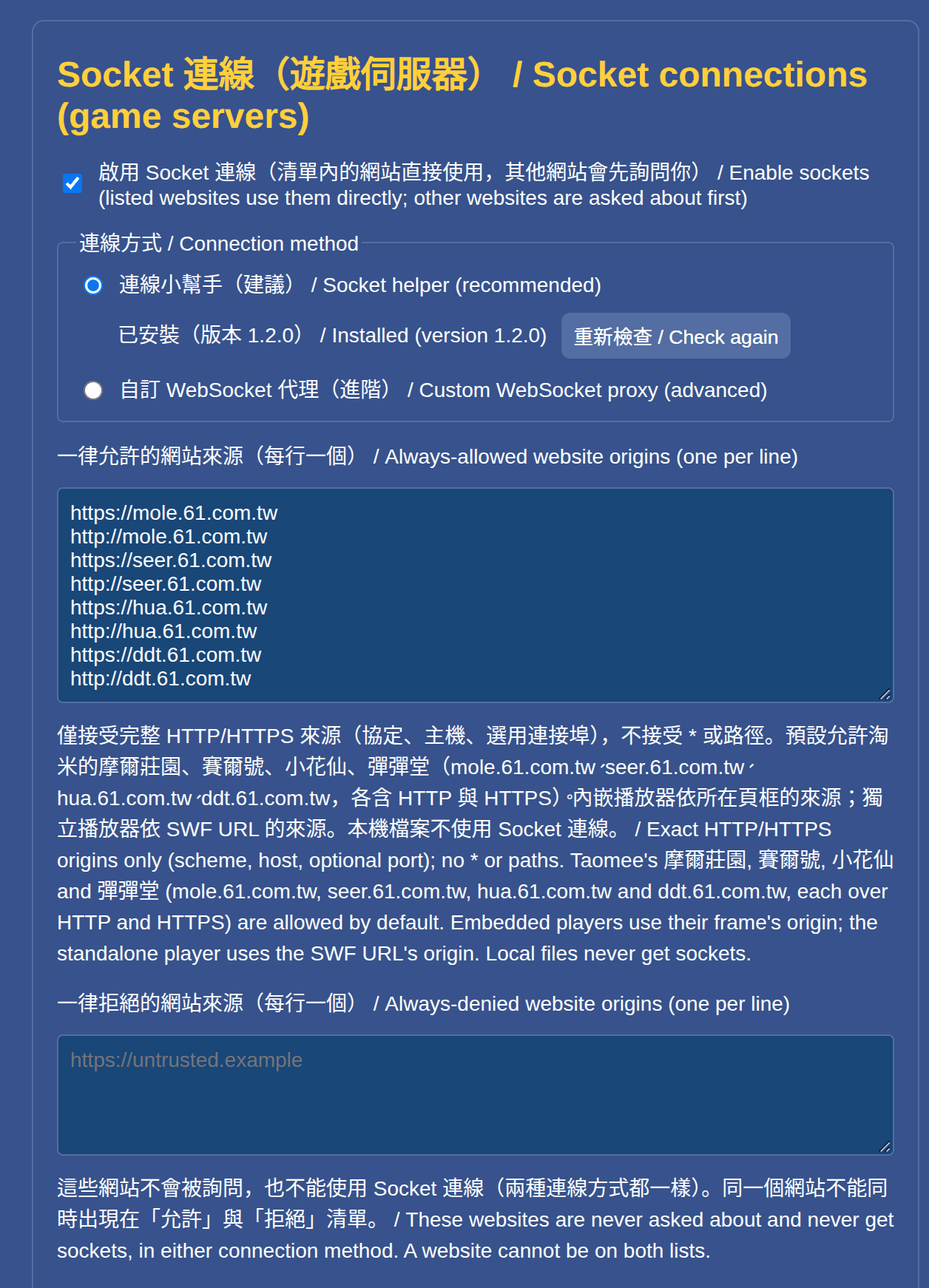
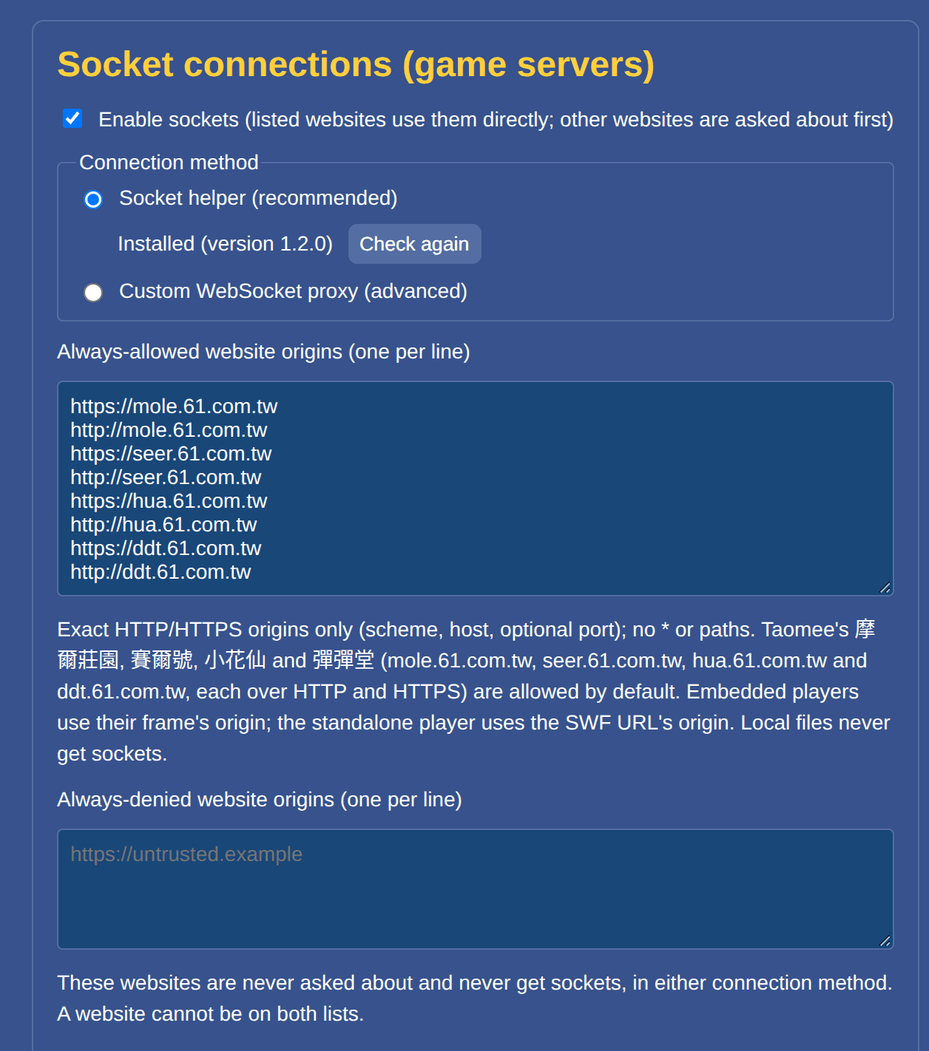
timffle: Prepare 0.8.0.26301
Interface languages (see the CHANGELOG). Documentation: README (all three
languages) gets a Languages section, the screenshots are taken in English,
Traditional and Simplified Chinese (docs/images/zh-TW, zh-CN), and
locales/README.md, ARCHITECTURE, TESTING, BUILD, UPSTREAM, BRANDING and
CHANGES-FROM-RUFFLE describe the mechanism and the merge step. Version strings
are raised to 0.8.0.26301; the earlier "unreleased" README entry moves into
the new version's section.

Changed region(s): [[0.0621, 0.0309, 0.9626, 0.8354], [0.0621, 0.8664, 0.9626, 0.9902]]

diff --git a/README.md b/README.md
@@ -18,7 +18,7 @@
 
 <p align="center"><b>English</b> ・ <a href="README.zh-TW.md">繁體中文</a> ・ <a href="README.zh-CN.md">简体中文</a></p>
 
-<p align="center">Version <code>0.8.0.26300</code> (based on Ruffle nightly 2026-10-13) | licence MIT OR Apache-2.0, at your option</p>
+<p align="center">Version <code>0.8.0.26301</code> (based on Ruffle nightly 2026-10-13) | licence MIT OR Apache-2.0, at your option</p>
 
 > [!IMPORTANT]
 > **Timffle is an unofficial fork of [Ruffle](https://ruffle.rs/). It is not affiliated with, endorsed by or sponsored by the Ruffle project, Ruffle LLC or Taomee.** Almost all of the Flash emulation is the work of Ruffle and its [hundreds of contributors](https://github.com/ruffle-rs/ruffle/graphs/contributors); this repository keeps Ruffle's complete git history, authorship and licence files.
@@ -50,6 +50,7 @@ Everything ships as **one Chrome extension package**: download it, install it, o
 - **Conservative security design**: the helper connects to public internet addresses only, listens on no port, does not stay running and records no traffic; only this extension's ID can call it.
 - **Real Flash as the reference**: every compatibility fix for Ruffle is compared line by line with the output of Adobe Flash Player 32 (30 golden files).
 - **Chinese text shows up**: device-font text uses the browser's fonts, positioned by the metrics of the Windows fonts the games ask for (SimSun, Arial Black, Tahoma, …).
+- **36 interface languages, like Ruffle**: the pages follow the browser's language (English and Traditional Chinese are written by the author, the other 34 are machine translations; see [Languages](#languages)).
 - **Taomee Taiwan's games out of the box**: the four game sites are allowed to use sockets by default.
 - **One package**: [Releases](https://github.com/Im-Tim-mI/Timffle/releases/latest) provides `timffle-chrome-<version>.zip` with the Chrome extension, the connection helper and the installers.
 - **Open source, upstream history kept**: Ruffle's complete git history, authorship and licences are preserved; Timffle's own parts are MIT OR Apache-2.0 at your option, like Ruffle.
@@ -140,7 +141,7 @@ The helper lives in `%LOCALAPPDATA%\TimffleSocketHelper` (Windows), `~/Library/A
 
 ## Settings
 
-The extension's options page has a section "**Socket 連線（遊戲伺服器） / Socket connections (game servers)**" (bilingual: Traditional Chinese / English):
+The extension's options page has a section "**Socket connections (game servers)**" (the pictures show an English browser; the text follows the browser's language, see [Languages](#languages)):
 
 <p align="center"><img src="timffle/docs/images/options-socket.png" alt="The socket section of the extension's options page: the connection helper is shown as installed, followed by the list of allowed website origins" width="560"></p>
 
@@ -184,6 +185,15 @@ Click the Timffle icon on the browser toolbar; the "Socket connections" section 
 - **Frames of other websites** in this tab that were asked about are listed below, each with its own button and drop-down.
 - The status line also shows this tab's allow or deny for "this visit".
 - The other options on that page are Ruffle's usual playback settings (device fonts, emulated Flash version, ActionScript time limit, …). **Device font renderer** defaults to Canvas (the browser's fonts), which is what makes Chinese text show up; choose Embedded there to go back to Ruffle's built-in font.
+
+## Languages
+
+Timffle's pages (settings, popup, question window) follow the browser's interface language. The languages are the same 36 as in the Ruffle extension: Arabic, Bosnian, Catalan, Chinese (Simplified and Traditional), Croatian, Czech, Dutch, English, Esperanto, Finnish, French, Galician, German, Hebrew, Hungarian, Indonesian, Italian, Japanese, Korean, Norwegian Bokmål, Polish, Portuguese (Brazil and Portugal), Romanian, Russian, Serbian, Slovak, Slovenian, Spanish, Swedish, Tatar, Thai, Turkish, Ukrainian and Vietnamese. Arabic and Hebrew are laid out right to left.
+
+- **Who translated what**: the texts Timffle added (the socket settings, the popup section and the question window) are in [`timffle/locales/`](timffle/locales/), one file per language. English and Traditional Chinese are written by the author; **the other 34 languages are machine translations** (Simplified Chinese is converted from the Traditional text) that no native speaker has reviewed, so some wording may be off, Tatar most of all. Corrections are welcome in [Timffle's issues](https://github.com/Im-Tim-mI/Timffle/issues).
+- **Ruffle's own texts** (the standard options and the player's messages) come from Ruffle's translations and are as complete as Ruffle's: a few languages (for example Esperanto, Galician, Norwegian and Thai) still show English there until Ruffle's translators have finished them.
+- **Chrome has no interface language** for Bosnian, Esperanto, Galician and Tatar, so Chrome shows these pages in English; the translations are included anyway, as in Ruffle.
+- **Not translated**: the helper installer's messages (Traditional Chinese and English) and this README (English, Traditional Chinese and Simplified Chinese).
 
 ## Troubleshooting
 
@@ -232,6 +242,7 @@ Details: [`timffle/docs/ARCHITECTURE.md`](timffle/docs/ARCHITECTURE.md), [`timff
 - **Hit testing**: Flash's `hitTestPoint(x, y, true)` works on whole pixels, Timffle on exact coordinates; edges occasionally differ by 1–2 cells.
 - **Recursion depth on the web**: the WebAssembly call stack is shallower than Flash's; the guard limit is 900 levels, and a few long kart-map paths are cut short.
 - **Text position**: Flash lays text out with the Windows font the game asks for. For the common ones (SimSun, Arial Black, Tahoma, …) Timffle uses Windows' line metrics even when the browser has to substitute another font, so text sits within about a pixel or two of Flash; other fonts use the browser's own metrics and can sit further off.
+- **Languages**: apart from English and Traditional Chinese, the texts Timffle added are machine translations that no native speaker has reviewed; the helper installer's messages are in Traditional Chinese and English only; Ruffle's own texts are as complete as Ruffle's translations are.
 - More known differences: the end of [`timffle/docs/CHANGES-FROM-RUFFLE.md`](timffle/docs/CHANGES-FROM-RUFFLE.md) and [`timffle/docs/FLASH-NOTES.md`](timffle/docs/FLASH-NOTES.md).
 
 ## Relationship with Ruffle
@@ -257,8 +268,8 @@ Needs git, Rust 1.99 with `wasm32-unknown-unknown`, wasm-bindgen CLI 0.2.127 (mu
 
 ```sh
 git clone https://github.com/Im-Tim-mI/Timffle.git && cd Timffle
-VERSION4=0.8.0.26300 timffle/scripts/build-extension.sh   # wasm + extension → web/packages/extension/dist/ruffle_extension.zip
-VERSION4=0.8.0.26300 timffle/scripts/package-release.sh   # helper for 7 platforms + release ZIP with licences → timffle/build/out/
+VERSION4=0.8.0.26301 timffle/scripts/build-extension.sh   # wasm + extension → web/packages/extension/dist/ruffle_extension.zip
+VERSION4=0.8.0.26301 timffle/scripts/package-release.sh   # helper for 7 platforms + release ZIP with licences → timffle/build/out/
 ```
 
 The build script rewrites the build machine's home directory and user name out of the wasm by default, and the packaging script checks before and after packaging and refuses to produce a release ZIP that still carries them. See [`timffle/docs/BUILD.md`](timffle/docs/BUILD.md). The other parts of Ruffle (desktop app etc.) build as upstream does ([`README.ruffle.md`](README.ruffle.md)), but read [`timffle/docs/BRANDING.md`](timffle/docs/BRANDING.md) first.
@@ -270,9 +281,10 @@ The build script rewrites the build machine's home directory and user name out o
 | Differential tests (against real Flash) | Small SWFs written in Haxe run once in Adobe Flash Player 32 (under Wine) and once in Timffle, compared line by line; 30 golden files | [`timffle/difftest/`](timffle/difftest/) |
 | Helper unit tests | Go: protocol, connection policy, flow control, install/uninstall | `timffle/helper/*_test.go` |
 | Package tests | The release ZIP's contents, permissions and private-key check | `timffle/helper/installer-tests/` |
-| Extension unit tests | Settings, page bridge, background permissions, the first-use question | `web/packages/extension/tests/` |
+| Extension unit tests | Settings, page bridge, background permissions, the first-use question, the message catalogs of all 36 languages | `web/packages/extension/tests/` |
 | Rebrand check | The user-visible text must not contain the product name "Ruffle" any more | `python3 timffle/scripts/rebrand.py --check` |
-| Browser + helper integration tests | Headless Chrome + the real helper, connecting to localhost only | [`timffle/tools/native-regress/`](timffle/tools/native-regress/) |
+| Language check | Every interface text exists in all 36 languages, with placeholders and technical words intact | `python3 timffle/scripts/sync_locales.py --check` |
+| Browser + helper integration tests | Headless Chrome + the real helper, connecting to localhost only; also every interface language in a real Chrome | [`timffle/tools/native-regress/`](timffle/tools/native-regress/) |
 | Ruffle's own regression suite | Upstream's tests plus the ones we added | `cargo test -p tests --test tests` |
 
 How to run them: [`timffle/docs/TESTING.md`](timffle/docs/TESTING.md). What was actually run for each version, and the results: [`timffle/CHANGELOG.md`](timffle/CHANGELOG.md).
@@ -295,10 +307,11 @@ timffle/                   Timffle's own parts:
   helper/                        The connection helper (Go), installers/uninstallers, packaging script
   relay/                         Advanced: a local WebSocket↔TCP proxy (bundles the MIT-licensed ws library)
   extension-key/                 The extension's public key and ID (the private key is not in the repository)
+  locales/                       Timffle's own interface texts, one file per language (copied into the extension's message catalogs by scripts/sync_locales.py)
   difftest/                      Differential tests: Haxe tests, goldens from real Flash, run/compare scripts
   tools/                         Chrome smoke tests, integration tests, real-account test, screenshot tools
   branding/                      Generators for Timffle's icon and logo
-  scripts/                       Build, packaging, path check, rebrand and its check, list of modified files
+  scripts/                       Build, packaging, path check, rebrand and its check, sync of the interface texts, list of modified files
 ```
 
 ### Following upstream Ruffle
@@ -311,6 +324,8 @@ git fetch upstream tag nightly-YYYY-MM-DD --no-tags
 git merge nightly-YYYY-MM-DD                 # merge, never rebase published history
 python3 timffle/scripts/rebrand.py           # re-apply the name to new/translated upstream strings
 python3 timffle/scripts/rebrand.py --check
+python3 timffle/scripts/sync_locales.py      # Timffle's own interface texts go back into the (upstream-replaced) message catalogs
+python3 timffle/scripts/sync_locales.py --check
 timffle/scripts/list-modified-files.sh > timffle/MODIFIED-FILES.md
 ```
 

diff --git a/timffle/CHANGELOG.md b/timffle/CHANGELOG.md
@@ -2,9 +2,27 @@
 
 版本號 `0.8.0.N`：前三段是基底 Ruffle 的版本（0.8.0），最後一段 `N` 是流水號（沿用前身專案的編號）。擴充功能與小幫手分開記版本：小幫手目前是 **1.2.0（protocol 2）**，只有在下面明確寫「小幫手有更新」時才需要重跑安裝程式。日期為 UTC。0.8.0.26295 以前是前身專案的紀錄。
 
-## 未發布
+## 0.8.0.26301 — 2026-10-18
 
-- **說明文件**：`README.md` 改成英文（預設），繁體中文移到 `README.zh-TW.md`，新增簡體中文 `README.zh-CN.md`（`README.en.md` 移除）。重心改成「Flash 線上遊戲」：TCP Socket 連線、線上遊戲需要的相容性修正、看得到中文；淘米台灣的四個遊戲改寫成預設放行的現成範例，不再是整份說明的主題。支援狀態新增「玩其他 Flash 線上遊戲」的做法，已知限制新增三項：沒有 Socket 政策檔（遊戲伺服器沒有否決權）、`XMLSocket` 沒有測試過、文字位置的精確度。摩爾莊園的驗證說明改成「0.8.0.26294 是這裡記錄的最後一次完整的真實帳號測試」（原本寫「之後的版本行為相同」，已經不成立）。三份說明的標題層級、表格、程式碼區塊、圖片與連結一一對應，相對連結與錨點用檢查腳本核對過（各 39 個連結）；簡體版是繁體版經 OpenCC（tw2sp）轉換、再人工修正用詞，**沒有請母語人士校對**。
+**介面語言：Timffle 的頁面跟著瀏覽器的語言，支援和 Ruffle 擴充功能一樣的 36 種語言。**只有 Chrome 擴充功能與文件、腳本改變；小幫手仍是 1.2.0（**不需要重跑安裝程式**）、通訊協定不變；Ruffle 核心（wasm）沒有動（`ruffle_web_bg.wasm` 與 0.8.0.26300 逐位元組相同，SHA-256 `872668b0…f5652`）。
+
+- **問題**：Ruffle 的選項、彈出視窗標題等用 Chrome 的訊息目錄，已經有 36 種語言；但 Timffle 自己加的畫面（Socket 設定、彈出視窗的 Socket 區塊、第一次連線的詢問視窗、頁尾聲明）全是寫死的「繁體中文／English」對照，其他語言的使用者看不懂。詢問視窗尤其重要：它是要使用者做安全決定的地方。
+- **改法**：這些文字全部移進訊息目錄，語言跟著瀏覽器的介面語言；語言取自 Ruffle：`ar bs ca cs de en eo es fi fr gl he hr hu id it ja ko nb nl pl pt_BR pt_PT ro ru sk sl sr sv th tr tt uk vi zh_CN zh_TW`。
+  - **75 句文字**，鍵以 `timffle_` 開頭，來源放在新的 [`locales/`](locales/)（每種語言一個檔案，英文是完整來源，帶給翻譯者的說明與佔位符），由新的 `scripts/sync_locales.py` 複製進各語言的 `messages.json`；`build-extension.sh` 在建置前跑 `--check`。分開存放是因為跟進上游時 `messages.json` 一律取上游版本（見 [`docs/UPSTREAM.md`](docs/UPSTREAM.md)），寫在裡面的文字會消失。`rebrand.py` 不改 `timffle_` 開頭的訊息（頁尾聲明刻意提到 Ruffle）。
+  - 設定頁、彈出視窗、詢問視窗的 HTML **不再自帶這些文字**（改標 `data-i18n`／`data-i18n-rich`），新增 `src/i18n.ts` 在載入時填入；`popup-socket.ts`、`proxy-options.ts`、`prompt.ts` 裡寫死的雙語字串全部換成訊息目錄的鍵。找不到的鍵顯示鍵名，不會留白。
+  - `setPageLanguage()` 多設 `dir`：阿拉伯文與希伯來文**由右至左**排版（詢問視窗的按鈕順序跟著反過來）；網址、來源清單、範例網址固定由左到右（`dir="ltr"`），阿拉伯文與希伯來文裡的 `ws://`、`wss://` 後面放了由左到右標記，否則 `://` 會被排反。拿掉這些區塊的 `translate="no"`（以前是為了避免 Chrome 把雙語文字翻壞，現在文字本來就是使用者的語言）。
+  - 詢問視窗的「出現在這個頁面中：網址」改成「標籤」與「網址」兩個元素，網址不會被翻譯或打亂順序。
+- **翻譯品質（照實說）**：英文與繁體中文由作者撰寫；簡體中文由繁體轉換後逐句改成大陸慣用說法；**其餘語言是機器翻譯**，沒有請母語人士審閱，可能有不自然或錯誤的地方，尤其是韃靼文。測試只能檢查結構、佔位符、技術用詞與用字，檢查不出語意是否通順。Ruffle 原有的文字（一般選項、播放器訊息）維持 Ruffle 的翻譯，完整程度和 Ruffle 一樣：世界語、加利西亞文、挪威文、泰文、韃靼文等在 Ruffle 補完之前仍有英文的地方。
+- **限制**：Chrome 沒有波士尼亞文、世界語、加利西亞文與韃靼文的介面語言，這四種在 Chrome 上顯示英文（翻譯仍附上，和 Ruffle 一樣）。連線小幫手安裝程式的訊息仍是繁體中文＋英文雙語；獨立播放器頁（`player.html`）Ruffle 原本就沒有翻譯。README 與設定頁截圖：英文版用英文介面，繁體／簡體版用各自語言的介面（`docs/images/zh-TW/`、`docs/images/zh-CN/`）。
+- - **說明文件**：`README.md` 改成英文（預設），繁體中文移到 `README.zh-TW.md`，新增簡體中文 `README.zh-CN.md`（`README.en.md` 移除）。重心改成「Flash 線上遊戲」：TCP Socket 連線、線上遊戲需要的相容性修正、看得到中文；淘米台灣的四個遊戲改寫成預設放行的現成範例，不再是整份說明的主題。支援狀態新增「玩其他 Flash 線上遊戲」的做法，已知限制新增三項：沒有 Socket 政策檔（遊戲伺服器沒有否決權）、`XMLSocket` 沒有測試過、文字位置的精確度。摩爾莊園的驗證說明改成「0.8.0.26294 是這裡記錄的最後一次完整的真實帳號測試」（原本寫「之後的版本行為相同」，已經不成立）。三份說明的標題層級、表格、程式碼區塊、圖片與連結一一對應，相對連結與錨點用檢查腳本核對過（各 41 個連結）；簡體版是繁體版經 OpenCC（tw2sp）轉換、再人工修正用詞，**沒有請母語人士校對**。
+- **驗證**（Chrome 155 無頭模式、Linux；對最終的發行包）：
+  - 擴充功能單元測試 **172 項**全過（原 152 項；新增 `i18n.test.mjs`、`locales.test.mjs`、`popup-socket-text.test.mjs`：36 種語言每一句都有且沒有多的、佔位符與 `{host}`／`{port}`／`<n>` 標記沒被翻掉、名稱與技術用詞保留、說明裡引用的按鈕用詞與按鈕一致、各語言用自己的文字、頁面與程式用到的鍵都存在且沒有沒人用的鍵、遊戲名稱與預設主機和程式裡的預設清單同步、彈出視窗每種狀態在每種語言都有文字）；`sync_locales.py --check`、`rebrand.py --check`、封裝測試 24 項、本機代理 10 項、比對工具測試通過；README 三份的連結與錨點檢查通過（各 41 個連結、26 個標題）。
+  - **新的 `locale-tests.mjs`**：36 種語言各開一個真 Chrome（以 `LANGUAGE=<語言>` 啟動），共 **552 項檢查全過**：Chrome 真的在那種語言下執行、設定頁與詢問視窗每個標記的元素都是該語言目錄裡的文字、`lang` 與 `dir`、頁尾聲明的兩個連結、粗體警告的位置、沒有水平溢出或被截斷的按鈕、按鈕順序跟著閱讀方向（阿拉伯文與希伯來文相反）。波士尼亞文、世界語、加利西亞文與韃靼文只確認 Chrome 退回英文且頁面顯示英文而不是鍵名。另外用肉眼看過其中幾種的截圖（不是全部）：詢問視窗的阿拉伯文、希伯來文、芬蘭文、泰文、繁體與簡體中文，設定頁的英文與阿拉伯文，彈出視窗的阿拉伯文、德文與繁體中文；阿拉伯文與希伯來文的版面是鏡像的、沒有錯位或被截斷。
+  - **整合測試**：`ask-tests.mjs`、`browser-auto-tests.mjs` 改成從訊息目錄取預期的文字（`catalog.mjs`），不再寫死語言，並能以 `TEST_LOCALE` 指定瀏覽器語言。對最終的發行包：localtest 28、missing 12、delayed 13、incompatible 12、manual 8、ask 64，全部通過；`ask-tests.mjs` 另以繁體中文與阿拉伯文各跑一遍（64 項全過，日文也在稍早的同一份原始碼上通過）。
+  - **測試節奏**：擴充功能每分鐘最多開 6 個詢問視窗。英文時每次開彈出視窗，測試都要多等幾秒（頁面文字剛好和預設的英文相同，測試等不到「文字改變」），其他語言不用等，整套測試只要約 1 分 20 秒（英文約 3 分鐘）；第一次用繁體中文跑時，短時間內開的詢問視窗超過上限，後面的問題就沒有視窗了。`ask-tests.mjs` 現在自己控制節奏（還有 5 個視窗年輕於 62 秒就等），這是測試的問題，不是擴充功能的問題。
+  - **已知會偶爾失敗的一項**：`browser-auto-tests.mjs` localtest 情境的 `local-close-no-remote-close-event`。用 0.8.0.26300 與舊腳本跑 8 次失敗 4 次，所以與這次改動無關；重跑通常就過，這次的最終發行包對它跑過一次是通過的。原因還沒查清（見 [`docs/TESTING.md`](docs/TESTING.md)）。
+  - **沒有驗證**：沒有在 macOS、Windows 或有畫面的 Chrome 上看過各語言的版面；沒有請母語人士看過任何一種翻譯；沒有在 Firefox／Safari 試過。
[1 lines of base64/hex data omitted]
 
 ## 0.8.0.26300 — 2026-10-18
 

diff --git a/timffle/docs/ARCHITECTURE.md b/timffle/docs/ARCHITECTURE.md
@@ -42,7 +42,7 @@
 | 元件 | 位置 | 說明 |
 |---|---|---|
 | 核心（WASM） | `core/`、`render/`、`web/src/` 等（Ruffle＋Timffle 的修正） | 模擬 Flash；相容性修正見 [`CHANGES-FROM-RUFFLE.md`](CHANGES-FROM-RUFFLE.md) |
-| 擴充功能 | `web/packages/extension/` | Manifest V3；`socket-bridge-{page,content,background,protocol,arm}.ts`、設定頁、`socket-proxy.ts`（設定、允許／拒絕清單與三態判斷）、`socket-prompt.ts`（詢問管理）、`socket-visit.ts`（單次造訪的回答）、`prompt.html`／`prompt.ts`（詢問視窗）、`popup-socket.ts`（彈出視窗的 Socket 區塊） |
+| 擴充功能 | `web/packages/extension/` | Manifest V3；`socket-bridge-{page,content,background,protocol,arm}.ts`、設定頁、`socket-proxy.ts`（設定、允許／拒絕清單與三態判斷）、`socket-prompt.ts`（詢問管理）、`socket-visit.ts`（單次造訪的回答）、`prompt.html`／`prompt.ts`（詢問視窗）、`popup-socket.ts`（彈出視窗的 Socket 區塊）、`i18n.ts`（把訊息目錄的文字填進頁面，見第 7 節） |
 | 連線小幫手 | [`helper/`](../helper/) | Go；沒有第三方相依套件；內建安裝／移除程式 |
 | 安裝啟動檔 | `helper/installers/` | 只是薄薄的啟動器，真正的安裝程式在小幫手執行檔裡（`--install`／`--uninstall`） |
 | 封裝工具 | `helper/package.py` | 驗證輸入（拒絕符號連結、私鑰標記、過大檔案）並產生發行 ZIP |
@@ -135,3 +135,14 @@
 - 簡單：沒有多工、沒有程序間狀態，小幫手一個程序只管一條 TCP；Chrome 關掉 Port 或擴充功能 service worker 被回收，stdin EOF 就讓小幫手關閉 TCP 並退出，不會留下常駐程序。
 - 安全：沒有可供他人連入的連接埠；也沒有一個長期存在的程序累積狀態。
 - 代價：每條連線啟動一個程序；Windows 上啟動程序的成本比 Linux 高。我們沒有量測這個開銷，也沒有在 Windows 實機上確認過。
+
+## 7. 介面語言
+
+擴充功能的頁面（設定頁、彈出視窗、詢問視窗）用 Chrome 的訊息目錄（`_locales/<語言>/messages.json`），語言跟著瀏覽器的介面語言，做法和 Ruffle 相同，支援同樣的 36 種語言。
+
+- **文字放哪裡**：Timffle 自己新增的文字，鍵都以 `timffle_` 開頭，來源在 [`../locales/`](../locales/)（每種語言一個檔案；英文是完整來源，帶給翻譯者的說明與佔位符）。`scripts/sync_locales.py` 把它們複製進 `web/packages/extension/assets/_locales/*/messages.json`；`--check` 確認複製結果是最新的，並檢查每種語言都有每一句，佔位符（`$VERSION$`）、使用者要照打的 `{host}`／`{port}` 與 `<1>…</1>` 標記沒有被翻譯弄丟。為什麼不直接改那些檔案：跟進上游時 `messages.json` 一律取上游版本（Crowdin 會更新它們），分開存放才不會被蓋掉。`rebrand.py` 不碰 `timffle_` 開頭的訊息（它們刻意提到 Ruffle）。
+- **頁面怎麼取字**：HTML 裡不放這些文字，只標 `data-i18n="鍵"`，`i18n.ts` 的 `localizePage()` 在頁面載入時填入。含連結或粗體的句子用 `data-i18n-rich`，句子裡的 `<1>…</1>` 對應到該元素的第 1 個子元素（連結的位址留在 HTML 裡，不進翻譯）；用程式組出來的文字（狀態、錯誤、按鈕）用 `text("鍵")`。找不到的鍵會直接顯示鍵名，不會留白，單元測試確認程式與頁面用到的鍵都存在、目錄裡沒有沒人用的鍵。
+- **方向與語言屬性**：`setPageLanguage()` 設定 `<html lang>` 與 `dir`（阿拉伯文、希伯來文是 `rtl`，取自 Chrome 的 `@@bidi_dir`）。網址、來源清單這類資料固定由左到右（`dir="ltr"`）；阿拉伯文與希伯來文裡的 `ws://`、`wss://` 後面放了一個由左到右標記（U+200E），否則 `://` 會被排成反的。
+- **機器翻譯**：英文與繁體中文由作者撰寫，其他 34 種是機器翻譯，沒有母語人士審閱；README 的「語言」段落與 [`../locales/README.md`](../locales/README.md) 照實說明。
+- **Chrome 的限制**：Chrome 沒有波士尼亞文、世界語、加利西亞文與韃靼文的介面語言，這四種在 Chrome 上顯示英文（翻譯仍附上，和 Ruffle 一樣）。
+- **沒涵蓋**：連線小幫手安裝程式的訊息（繁體中文＋英文雙語）、獨立播放器頁（`player.html`，Ruffle 原本就沒有翻譯）。

diff --git a/timffle/docs/BUILD.md b/timffle/docs/BUILD.md
@@ -22,14 +22,14 @@
 git clone https://github.com/Im-Tim-mI/Timffle.git && cd Timffle
 
 # 1. 建置擴充功能 → web/packages/extension/dist/ruffle_extension.zip
-VERSION4=0.8.0.26300 timffle/scripts/build-extension.sh
+VERSION4=0.8.0.26301 timffle/scripts/build-extension.sh
 
 # 2+3. 交叉編譯小幫手（7 個平台），並封裝成發行 ZIP（含 LICENSES/ 與 NOTICE.md）→ timffle/build/out/
-VERSION4=0.8.0.26300 timffle/scripts/package-release.sh
+VERSION4=0.8.0.26301 timffle/scripts/package-release.sh
 ```
 
 - `VERSION4` 是擴充功能版本，四段數字；最後一段只是流水號。
-- `build-extension.sh` 的順序是：品牌檢查（`timffle/scripts/rebrand.py --check`；有 Pillow 時也檢查圖示）→ `npm ci` → 建置 Ruffle 核心（呼叫 cargo 編出一份 wasm，使用 SIMD 等擴充指令的版本；再跑 wasm-bindgen 與 wasm-opt。Ruffle 另有給舊瀏覽器的 MVP 版本，需設 `BUILD_WASM_MVP=true`，本專案沒有用）→ 擴充功能型別檢查與單元測試 → `build:generic` 產生擴充功能 ZIP（`CFG_RELEASE_CHANNEL=local-native-auto`，並把 `timffle/extension-key/` 的公鑰放進 `manifest.json`）。`SKIP_TESTS=1` 可略過測試。輸出檔名 `ruffle_extension.zip` 是上游建置腳本的內部名稱；發行 ZIP 叫 `timffle-chrome-<版本>.zip`。
+- `build-extension.sh` 的順序是：品牌檢查（`timffle/scripts/rebrand.py --check`；有 Pillow 時也檢查圖示）→ 介面文字檢查（`timffle/scripts/sync_locales.py --check`）→ `npm ci` → 建置 Ruffle 核心（呼叫 cargo 編出一份 wasm，使用 SIMD 等擴充指令的版本；再跑 wasm-bindgen 與 wasm-opt。Ruffle 另有給舊瀏覽器的 MVP 版本，需設 `BUILD_WASM_MVP=true`，本專案沒有用）→ 擴充功能型別檢查與單元測試 → `build:generic` 產生擴充功能 ZIP（`CFG_RELEASE_CHANNEL=local-native-auto`，並把 `timffle/extension-key/` 的公鑰放進 `manifest.json`）。`SKIP_TESTS=1` 可略過測試。輸出檔名 `ruffle_extension.zip` 是上游建置腳本的內部名稱；發行 ZIP 叫 `timffle-chrome-<版本>.zip`。
 - 型別檢查需要先建好核心（它從核心的建置輸出取型別宣告）。擴充功能的單元測試（`cd web && npm ci && npm test --workspace=ruffle-extension`）不需要 wasm。
 - `package-release.sh` 需要 Go 的授權檔（從 `go env GOROOT` 取得），並把 Ruffle、Timffle、rust-flash-lso 與 Go 的授權檔放進 ZIP 的 `LICENSES/`。
 - **建置路徑不進發行檔**：Rust 的 panic 訊息會把原始碼路徑寫進 wasm，沒處理的話發行 ZIP 會帶著建置機的家目錄與使用者名稱。`build-extension.sh` 預設用 `--remap-path-prefix` 把它們改寫成 `/h`、`/cargo`、`/rustup`、`/src`（`KEEP_BUILD_PATHS=1` 可關閉，只限不會離開這台機器的建置）；`package-release.sh` 在打包前與打包後都用 `timffle/scripts/check-no-build-paths.py` 檢查，發現就拒絕產出，並刪掉剛做好的 ZIP（`SKIP_PATH_CHECK=1` 可略過，同樣只限本機）。要上傳到 GitHub 的發行檔都必須通過這個檢查。
@@ -88,5 +88,6 @@ python3 -I timffle/scripts/extension-id.py > timffle/extension-key/extension-id.
 - **`wasm-bindgen CLI is X but Cargo.lock needs Y`**：安裝指定版本，例如 `cargo install wasm-bindgen-cli --version 0.2.127 --locked`，或下載對應版本的預編譯檔。
 - **`npm ci` 提示有套件的安裝指令碼沒被核准**：這是 npm 11 的提示，建置不受影響。
 - **編譯 wasm 很慢、占很多磁碟**：第一次建置要編譯上千個 crate；`target/` 可能長到數 GB。之後增量建置會快很多。
+- **`build-extension: Timffle's interface texts are not in the message catalogs`**：`timffle/locales/` 改過、或跟進上游後 `messages.json` 被換成上游版本；執行 `python3 timffle/scripts/sync_locales.py`（見 [`../locales/README.md`](../locales/README.md)）。
 - **`build-extension: user-visible texts still say Ruffle`**：跟進上游後有新的文字，執行 `python3 timffle/scripts/rebrand.py`（見 [`BRANDING.md`](BRANDING.md)）。
 - **只想建置 Ruffle 原有的其他部分（桌面版等）**：與上游相同（見根目錄 `README.ruffle.md`），但它們還沒改名，不能以 Timffle 名義散布。

diff --git a/timffle/docs/CHANGES-FROM-RUFFLE.md b/timffle/docs/CHANGES-FROM-RUFFLE.md
@@ -21,11 +21,11 @@
 讓擴充功能能把 Ruffle 的 `flash.net.Socket` 接到連線小幫手（架構見 [`ARCHITECTURE.md`](ARCHITECTURE.md)）。
 
 - **橋接**：`socket-bridge-page.ts`（頁面端，只攔截保留網址 `ws://timffle-socket.invalid/connect?host=…&port=…` 的 `WebSocket`）、`socket-bridge-content.ts`、`socket-bridge-background.ts`（來源重新驗證、全域／每頁框上限、頁面導覽與設定撤銷時關閉）、`socket-bridge-protocol.ts`（常數與訊息格式驗證）。
-- **設定**：`socket-proxy.ts`（模式、允許的網站來源、預設清單與升級規則、代理網址樣板驗證）、`proxy-settings.ts`（只存 `storage.local`，不同步）、`proxy-options.ts` 與選項頁的「Socket 連線」區塊（中英對照，整個區塊 `translate="no"`，避免 Chrome 自動翻譯弄錯遊戲名稱）。
+- **設定**：`socket-proxy.ts`（模式、允許的網站來源、預設清單與升級規則、代理網址樣板驗證）、`proxy-settings.ts`（只存 `storage.local`，不同步）、`proxy-options.ts` 與選項頁的「Socket 連線」區塊（文字來自訊息目錄，跟著瀏覽器的 36 種介面語言，見 [`ARCHITECTURE.md`](ARCHITECTURE.md) 第 7 節）。
 - **整合**：`utils.ts` 的 `getOptions(origin)` 只對「允許使用 Socket 的網站」注入 `socketProxy` 設定；使用者沒有自己指定渲染器時，所有網頁（以及選項頁的顯示）預設把裝置字型改成 `canvas`（用瀏覽器字型畫中文），與 Socket 的任何決定無關——以前只有「一律允許」的網站才有，被詢問或拒絕的遊戲中文會消失（見 CHANGELOG 0.8.0.26299）。不在清單內的網站與本機檔案收不到任何 Socket 設定。`build.ts` 加上 `nativeMessaging` 權限，並把環境變數 `EXTENSION_PUBLIC_KEY` 寫成 `manifest.key`（固定 ID）。
 - **`web/packages/core/.../load-options.ts`**：`socketProxy` 設定的型別與文件，說明萬用字元對應（`host:"*"`、`port:0`）、`{host}`／`{port}` 樣板、精確對應優先，以及「成功＝WebSocket OPEN」的語意（見 0002）。
 - **測試**：3 個測試檔共 38 項（設定與允許清單、頁面橋接、背景權限）。
-- **之後新增（發行前）**：第一次連線時的詢問、「一律拒絕」清單、彈出視窗的「允許此網站使用 Socket 連線」按鈕。這些在原本的補丁之後以獨立 commit 加入，說明見 [`ARCHITECTURE.md`](ARCHITECTURE.md) 第 3a 節與 [`../CHANGELOG.md`](../CHANGELOG.md)。同一批改動還把 `manifest.json5` 的 `web_accessible_resources` 從 `*` 縮到 `dist/*` 與 `player.html`（上游是整個資料夾對所有網頁開放，網頁可以把擴充功能自己的頁面嵌進頁框）。
+- **之後新增（發行前）**：第一次連線時的詢問、「一律拒絕」清單、彈出視窗的「允許此網站使用 Socket 連線」按鈕。這些在原本的補丁之後以獨立 commit 加入，說明見 [`ARCHITECTURE.md`](ARCHITECTURE.md) 第 3a 節與 [`../CHANGELOG.md`](../CHANGELOG.md)。0.8.0.26301 起這些頁面的文字全部來自訊息目錄（新增 `i18n.ts`、`timffle/locales/`、`scripts/sync_locales.py`，`utils.ts` 的 `setPageLanguage()` 多設 `dir`）；選項頁、彈出視窗與詢問視窗的 HTML 不再自帶文字。同一批改動還把 `manifest.json5` 的 `web_accessible_resources` 從 `*` 縮到 `dist/*` 與 `player.html`（上游是整個資料夾對所有網頁開放，網頁可以把擴充功能自己的頁面嵌進頁框）。
 
 ## 0002 — 網頁版執行期：Socket 後端與 canvas 通用字型（3 個檔案）
 

diff --git a/timffle/docs/UPSTREAM.md b/timffle/docs/UPSTREAM.md
@@ -24,7 +24,8 @@ git merge nightly-YYYY-MM-DD
 |---|---|
 | `.github/workflows/*`、`.github/dependabot.yml`、`.github/FUNDING.yml`、`.github/ISSUE_TEMPLATE/*`（上游有改、我們已刪除或替換） | 保持 Timffle 的版本：`git rm` 上游的 workflow／dependabot／FUNDING；issue 範本用我們的。Ruffle 的 CI 會發布到 Ruffle 的商店帳號、需要 Ruffle 的密鑰，不能在 Timffle 跑 |
 | `README.ruffle.md`（上游改了 `README.md`） | Git 通常會跟著改名合併；若變成衝突，把上游的新 `README.md` 內容放進 `README.ruffle.md`，`README.md`（英文）與 `README.zh-TW.md`、`README.zh-CN.md` 保持 Timffle 的 |
-| 語系文字 `*.ftl`、`messages.json`（上游 Crowdin 翻譯更新 vs 我們換過名） | 先接受上游版本（`git checkout --theirs <檔案>`），合併完成後跑 `python3 timffle/scripts/rebrand.py` 一次換回來 |
+| 語系文字 `*.ftl`、`messages.json`（上游 Crowdin 翻譯更新 vs 我們換過名） | 先接受上游版本（`git checkout --theirs <檔案>`），合併完成後跑 `python3 timffle/scripts/rebrand.py` 一次換回來，再跑 `python3 timffle/scripts/sync_locales.py`：Timffle 自己的介面文字（`timffle_` 開頭的鍵，來源在 [`../locales/`](../locales/)）會放回各語言的 `messages.json`。**不要把 Timffle 的文字只寫在 `messages.json` 裡**，下次取上游版本時會消失 |
+| 上游新增了語言（`_locales/` 多一個資料夾） | `sync_locales.py` 會報錯，要求補上 `timffle/locales/<語言>.json`；照 [`../locales/README.md`](../locales/README.md) 補翻譯，機器翻譯要在 README 的「語言」段落照實說明。反過來，上游拿掉的語言要刪掉對應的檔案 |
 | `Cargo.lock`（上游升級相依） | 接受上游版本後跑 `cargo metadata --format-version 1 > /dev/null` 讓 Cargo 補上 flash-lso 的 `[patch]`；確認 `Cargo.lock` 裡 `flash-lso` 沒有 `source`（表示用的是 `vendor/` 的版本） |
 | 上游升級了 rust-flash-lso 的版本 | 用 `git subtree pull --prefix=vendor/rust-flash-lso https://github.com/ruffle-rs/rust-flash-lso.git <新 commit>`（或 `git merge -s subtree`）跟進，再確認我們的 AMF3 修正還在／上游是否已修好，最後更新 `UPSTREAM.env` 的 `FLASH_LSO_BASE` |
 | 我們修改過的程式碼（AVM2、3D、網頁 Socket） | 一般的程式衝突；以真 Flash 的差異測試為準（[`TESTING.md`](TESTING.md)） |
@@ -33,6 +34,7 @@ git merge nightly-YYYY-MM-DD
 
 ```sh
 python3 timffle/scripts/rebrand.py && python3 timffle/scripts/rebrand.py --check   # 品牌
+python3 timffle/scripts/sync_locales.py && python3 timffle/scripts/sync_locales.py --check   # Timffle 自己的介面文字
 python3 timffle/branding/make_branding.py --check
 cargo test -p tests --test tests                                                  # Ruffle 回歸測試（含我們新增的）
 (cd web && npm ci && npm test --workspace=ruffle-extension)                        # 擴充功能單元測試

diff --git a/timffle/docs/BRANDING.md b/timffle/docs/BRANDING.md
@@ -14,8 +14,8 @@
 | `web/packages/extension/manifest.json5` | `name`「Timffle - Flash Emulator」、`short_name`、`homepage_url` → Timffle repo | 手改；`rebrand.py --check` 會檢查 |
 | `web/packages/extension/build.ts` | Firefox 附加元件 ID 改成 Timffle 自己的 `{4244f375-9038-4a8d-bc77-e47e6cc7a426}`（`ruffle@ruffle.rs` 屬於官方 Ruffle 附加元件） | 手改；有檢查 |
 | `web/packages/extension/assets/*.html` | 頁面標題、文字、`alt`、標誌連結 | `rebrand.py` 自動 |
-| `web/packages/extension/assets/options.html` | 頁尾的非官方分支聲明與致謝（`class="timffle-attribution"`，雙語、`translate="no"`，刻意提到 Ruffle 並連到 ruffle.rs） | 手改；`rebrand.py` 跳過這一段；有檢查 |
-| `web/packages/extension/assets/_locales/*/messages.json` | 擴充功能的所有語系文字 | `rebrand.py` 自動 |
+| `web/packages/extension/assets/options.html` | 頁尾的非官方分支聲明與致謝（`class="timffle-attribution"`；文字在訊息目錄的 `timffle_attribution`，每種語言都有，兩個連結的位址留在 HTML 裡；刻意提到 Ruffle 並連到 ruffle.rs） | 手改；`rebrand.py` 跳過這一段，也跳過所有 `timffle_` 開頭的訊息（它們刻意提到 Ruffle）；有檢查 |
+| `web/packages/extension/assets/_locales/*/messages.json` | 擴充功能的所有語系文字（Timffle 自己的 `timffle_*` 訊息除外：它們由 `sync_locales.py` 從 `timffle/locales/` 放進來，見 [`../locales/README.md`](../locales/README.md)） | `rebrand.py` 自動 |
 | `web/packages/core/texts/*/*.ftl` | 播放器的右鍵選單（「關於 Timffle」）、錯誤畫面、提示等所有語系文字 | `rebrand.py` 自動 |
 | `web/packages/core/src/internal/constants.tsx` | 新增 `TIMFFLE_REPOSITORY` | 手改 |
 | `web/packages/core/src/internal/ui/panic.tsx` | 錯誤畫面的「回報錯誤」開 **Timffle** 的 issue（`.github/ISSUE_TEMPLATE/error_report.md`）；「更新」連到 Timffle Releases | 手改；有檢查 |
